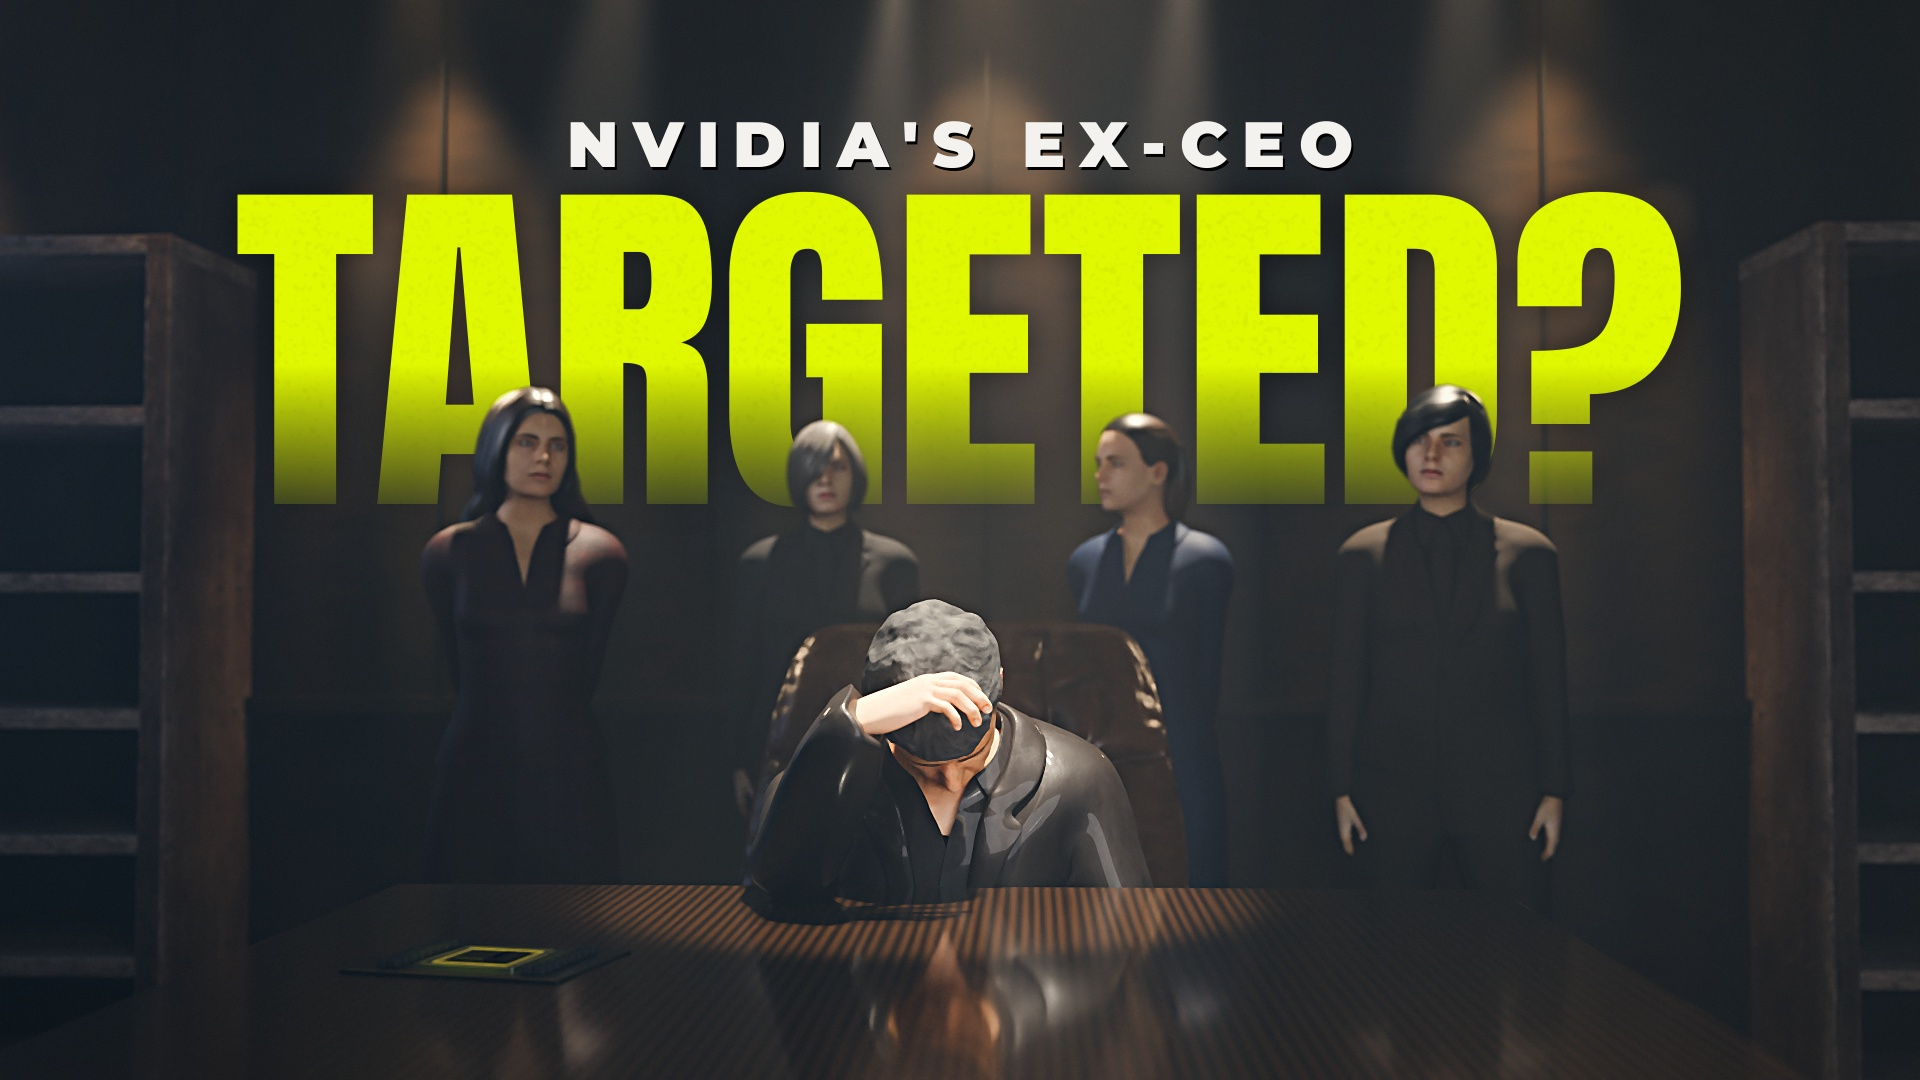
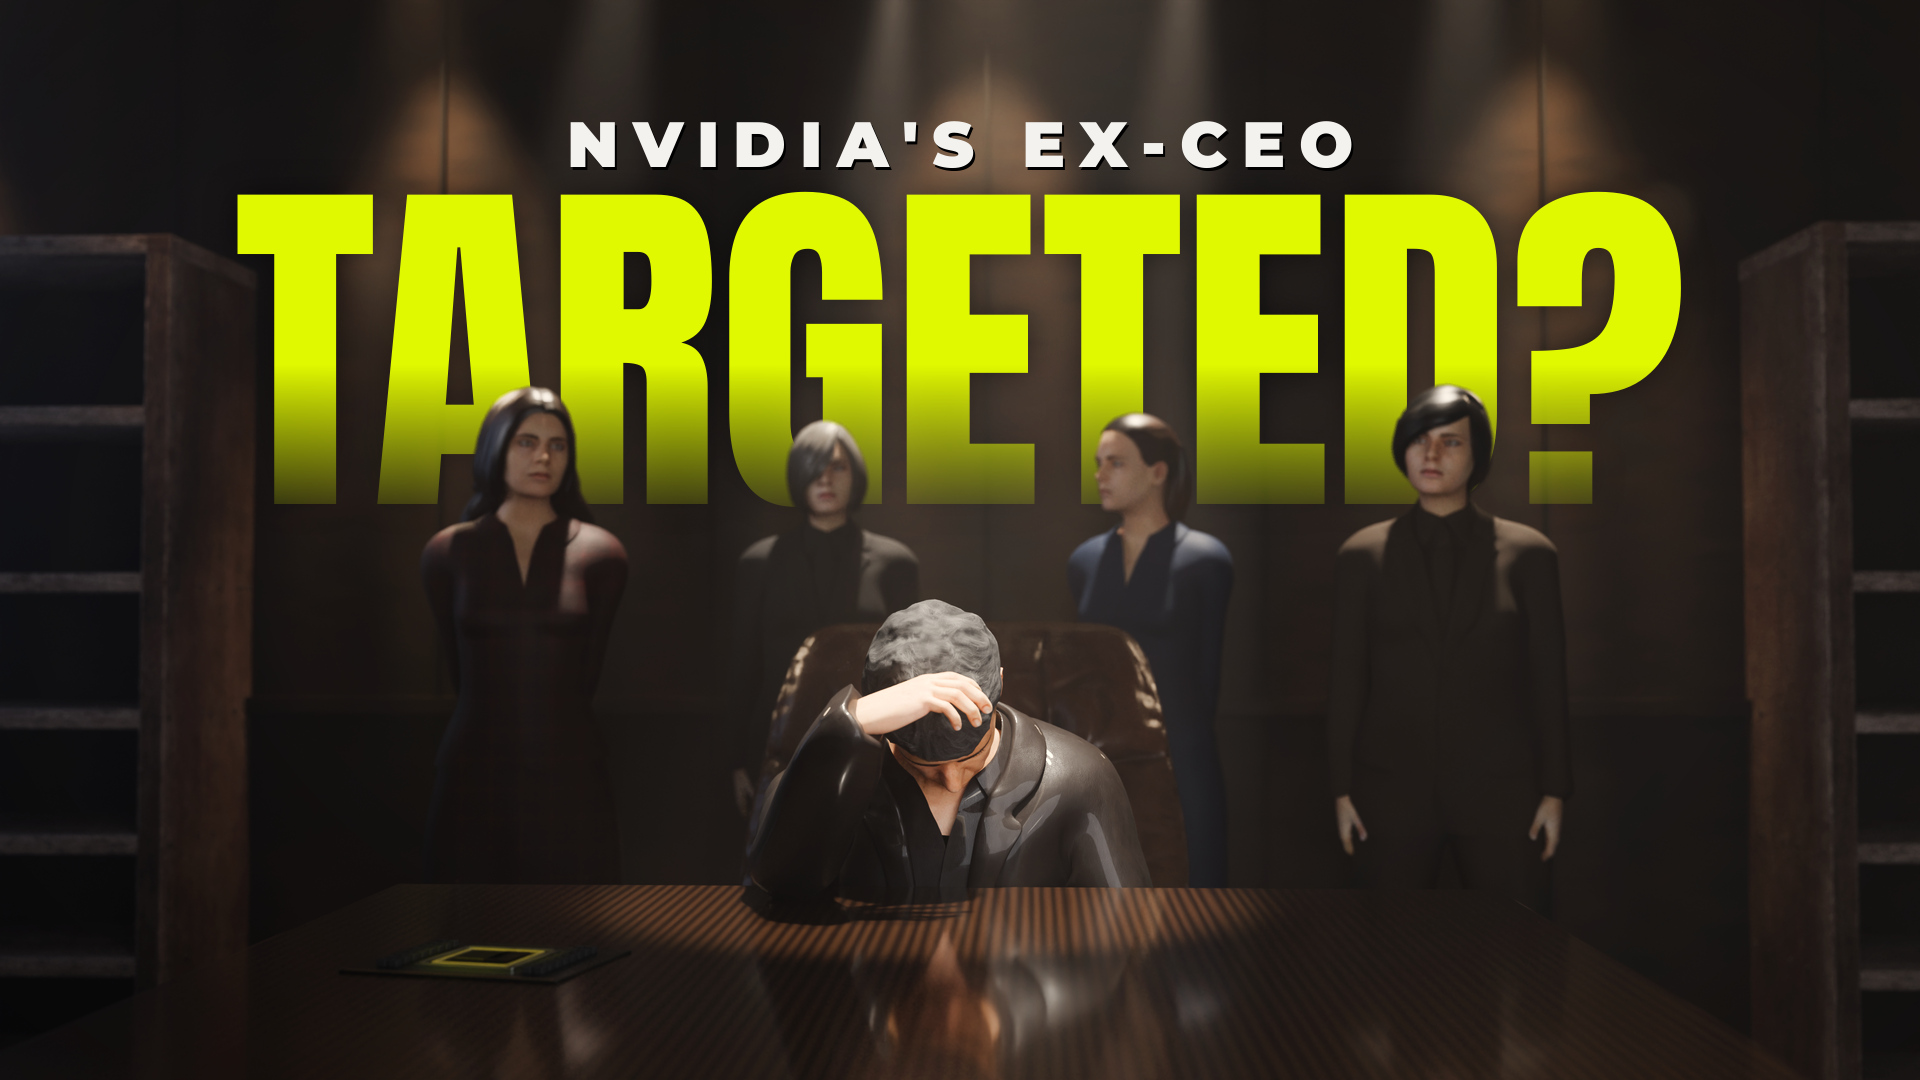
Thumbnails: Nvidia B clean finish (no grain/sharpening/cool tint, flat letters)
Claude-Session: https://claude.ai/code/session_01XfwPSn2rDX1TedbFgHWJ1r

diff --git a/thumbnails/tools/cine.py b/thumbnails/tools/cine.py
@@ -14,8 +14,9 @@ def cine_grade(img, bloom=0.25, clarity=0.6, shadows=(0.02, 0.05, 0.07), highs=(
     a = a + np.array(shadows) * (1 - l) ** 2 * 1.5                # cool shadows
     a = a * (1 + (np.array(highs) - 1) * l)                       # warm highlights
     im = Image.fromarray((np.clip(a, 0, 1) * 255).astype(np.uint8))
-    det = im.filter(ImageFilter.UnsharpMask(radius=6, percent=int(clarity * 120), threshold=2))   # local contrast / crispness
-    im = det.filter(ImageFilter.UnsharpMask(radius=1.2, percent=60, threshold=1))
+    if clarity > 0:
+        det = im.filter(ImageFilter.UnsharpMask(radius=6, percent=int(clarity * 120), threshold=2))   # local contrast / crispness
+        im = det.filter(ImageFilter.UnsharpMask(radius=1.2, percent=60, threshold=1))
     b = np.asarray(im).astype(np.float32) / 255
     hi = np.clip((b - 0.6) / 0.4, 0, 1)
     glow = np.asarray(Image.fromarray((hi * 255).astype(np.uint8)).filter(ImageFilter.GaussianBlur(28))).astype(np.float32) / 255
@@ -23,7 +24,8 @@ def cine_grade(img, bloom=0.25, clarity=0.6, shadows=(0.02, 0.05, 0.07), highs=(
     yy, xx = np.mgrid[0:b.shape[0], 0:b.shape[1]]
     r = np.hypot((xx / b.shape[1] - 0.5) * 1.5, (yy / b.shape[0] - 0.5) * 1.3)
     b = b * (1 - vignette * np.clip(r - 0.3, 0, None) ** 1.5)[..., None]
-    b = b + np.random.default_rng(3).normal(0, grain, b.shape[:2])[..., None]
+    if grain > 0:
+        b = b + np.random.default_rng(3).normal(0, grain, b.shape[:2])[..., None]
     return Image.fromarray((np.clip(b, 0, 1) * 255).astype(np.uint8))
 
 

diff --git a/thumbnails/nvidia/make_final_b.py b/thumbnails/nvidia/make_final_b.py
@@ -6,9 +6,12 @@ from cine import cine_grade, title, LIME, WHITE
 from compose import load_plate
 P = os.path.join(HERE, "plates"); D = os.path.join(HERE, "download_b"); os.makedirs(D, exist_ok=True)
 from PIL import ImageFilter
-g = cine_grade(load_plate(os.path.join(P, "targeted_final.png")).filter(ImageFilter.MedianFilter(3)), clarity=0.25, grain=0.004, bloom=0.22)
+import cine
+cine._grit.__defaults__ = (5, 0.0)                       # flat, clean letters
+g = cine_grade(load_plate(os.path.join(P, "targeted_final.png")), clarity=0.0, grain=0.0, bloom=0.15,
+               shadows=(0.0, 0.0, 0.0), highs=(1.03, 1.0, 0.96), vignette=0.4)   # clean: no grain, no sharpening, no cool shadow tint
 t = title(g, "NVIDIA'S EX-CEO", "TARGETED?", LIME, WHITE, "anton", 360, 80, matte=os.path.join(P, "targeted_final_mask.png"))
-t.save(os.path.join(HERE, "nvidia_final_B.jpg"), quality=94)
+t.save(os.path.join(HERE, "nvidia_final_B.jpg"), quality=97, subsampling=0)
 t.save(os.path.join(D, "nvidia_thumbnail_EXCEO_TARGETED.png")); t.save(os.path.join(D, "nvidia_thumbnail_EXCEO_TARGETED_youtube.jpg"), quality=96, subsampling=0)
 g.save(os.path.join(D, "nvidia_thumbnail_notext.png")); g.save(os.path.join(D, "nvidia_thumbnail_notext_youtube.jpg"), quality=96, subsampling=0)
 print("done")
